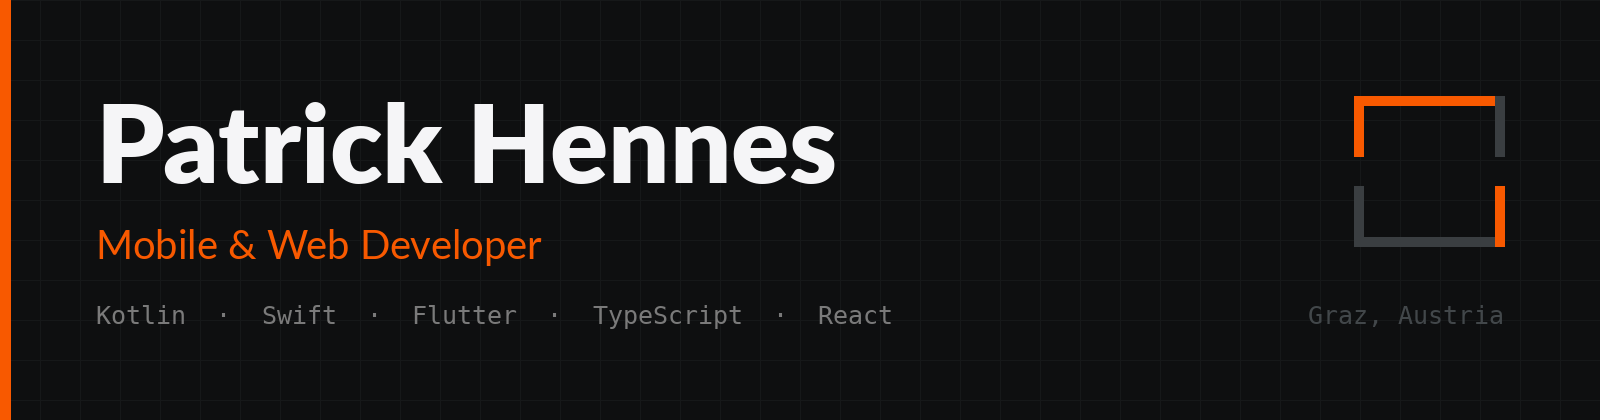
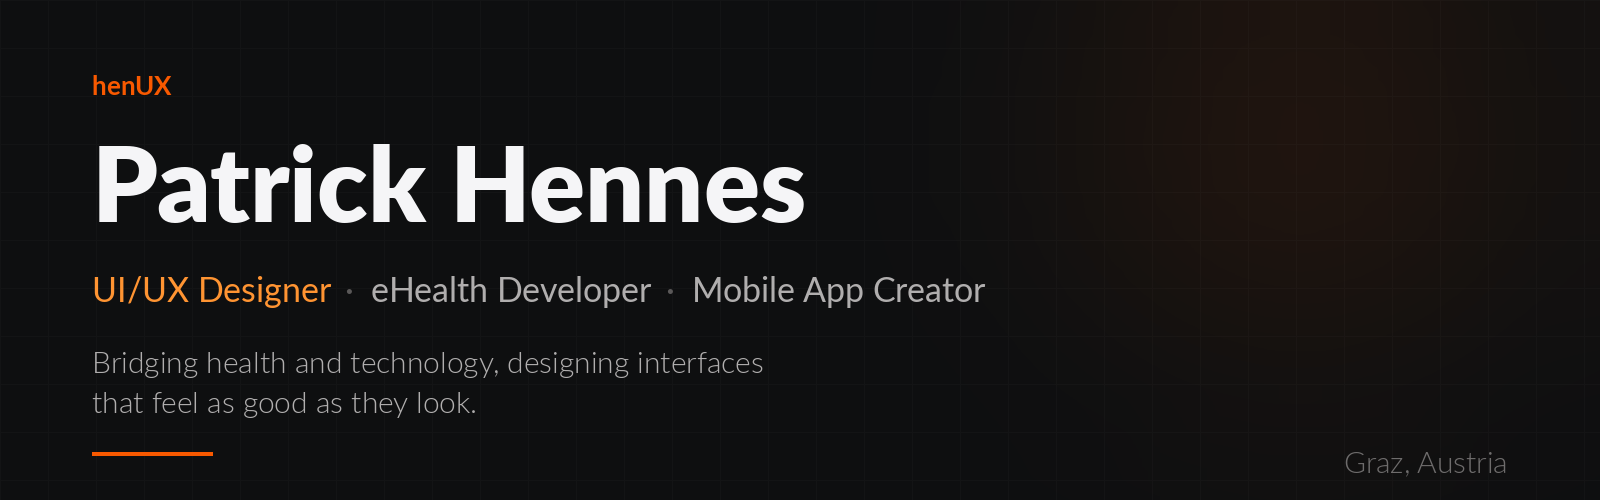
Rebuild profile in the henUX design language

diff --git a/README.md b/README.md
@@ -1,61 +1,52 @@
 <p align="center">
-  <img src="assets/banner.png" alt="Patrick Hennes, Mobile and Web Developer, Graz Austria" width="100%">
+  <img src="assets/banner.png" alt="Patrick Hennes, UI/UX Designer and eHealth Developer, Graz Austria" width="100%">
 </p>
 
 <p align="center">
-  <img src="https://img.shields.io/badge/Kotlin-0E0F10?style=flat-square&logo=kotlin&logoColor=F85900">
   <img src="https://img.shields.io/badge/Swift-0E0F10?style=flat-square&logo=swift&logoColor=F85900">
+  <img src="https://img.shields.io/badge/Kotlin-0E0F10?style=flat-square&logo=kotlin&logoColor=F85900">
   <img src="https://img.shields.io/badge/Flutter-0E0F10?style=flat-square&logo=flutter&logoColor=F85900">
-  <img src="https://img.shields.io/badge/Dart-0E0F10?style=flat-square&logo=dart&logoColor=F85900">
   <img src="https://img.shields.io/badge/TypeScript-0E0F10?style=flat-square&logo=typescript&logoColor=F85900">
   <img src="https://img.shields.io/badge/React-0E0F10?style=flat-square&logo=react&logoColor=F85900">
   <img src="https://img.shields.io/badge/Next.js-0E0F10?style=flat-square&logo=nextdotjs&logoColor=F85900">
   <img src="https://img.shields.io/badge/Firebase-0E0F10?style=flat-square&logo=firebase&logoColor=F85900">
-  <img src="https://img.shields.io/badge/Node.js-0E0F10?style=flat-square&logo=nodedotjs&logoColor=F85900">
+  <img src="https://img.shields.io/badge/Figma-0E0F10?style=flat-square&logo=figma&logoColor=F85900">
+  <img src="https://img.shields.io/badge/HL7%20FHIR-0E0F10?style=flat-square&logo=hl7&logoColor=F85900">
 </p>
 
----
+<br>
 
-I build apps end to end, from the interface down to the API underneath. Native
-in Kotlin and Swift, cross-platform in Flutter, React and Next.js on the web.
+I'm Patrick, from Graz. Got into tech early and never really stopped. I found
+UI/UX during an Erasmus semester in the Netherlands, on a project for the city
+of Amsterdam, and that changed the direction of everything since.
 
-My day job is the other side of development: I test and release telemedicine
-systems running in Austrian care programmes. Watching where software fails once
-real people depend on it changed how I build it. Finishing an MSc in eHealth at
-FH JOANNEUM in September 2026.
+Almost done with my MSc in eHealth at FH JOANNEUM, building mobile apps in
+Swift, Kotlin and Flutter, and thinking a lot about how health and technology
+can actually work well together. My day job is the other side of development: I
+test and release telemedicine systems running in Austrian care programmes.
+Seeing where software fails once real people depend on it changed how I build
+it.
 
 <br>
 
-## Open source
+## Selected work
 
-| | |
-|---|---|
-| **[exif_scrubber](https://github.com/hennees/exif_scrubber)** | Strips EXIF and XMP from JPEGs losslessly, without re-encoding pixels. Pure Dart, no plugins, 17 tests. Extracted from a production app, where photos leaving a device carry the owner's home address in the file header. |
-| **[pokedex-swiftui](https://github.com/hennees/pokedex-swiftui)** | SwiftUI app on the PokéAPI. My first iOS project, 2023. |
-| **[newsapp-compose](https://github.com/hennees/newsapp-compose)** | Android news reader. Jetpack Compose, Hilt, Paging 3, clean architecture. 2024. |
-
-Both university projects are published as they were written, each with a
-section on what I would do differently now. A portfolio that only shows the
-good parts is not a portfolio, it is a brochure.
-
-<br>
-
-## Built, but not open
-
-Some of my work belongs to a client, an employer, or contains other people's
-data. Those get a written account and screenshots instead of source.
+Some of this is a client's, an employer's, or holds other people's data. Those
+get a written account and screenshots instead of source.
 
 <table>
 <tr>
-<td width="25%" align="center"><a href="https://github.com/hennees/pairfect-showcase"><img src="assets/pairfect.png" width="150"></a></td>
-<td width="75%">
+<td width="26%" align="center"><a href="https://github.com/hennees/pairfect-showcase"><img src="assets/pairfect.png" width="150"></a></td>
+<td width="74%">
 
-**[Pairfect](https://github.com/hennees/pairfect-showcase)**
+### [Pairfect](https://github.com/hennees/pairfect-showcase)
 
 An app for two people: shared memories, a map of where you have been, plans and
 daily rituals. Built solo alongside a full-time master's and a job. 78,000
 lines of Dart across 11 feature modules, a serverless backend, subscriptions,
 offline maps, iOS widgets. Nine months, 493 commits.
+
+`Flutter` `Dart` `Firebase` `RevenueCat` `Mapbox` `WidgetKit`
 
 </td>
 </tr>
@@ -63,37 +54,14 @@ offline maps, iOS widgets. Nine months, 493 commits.
 <td align="center"><a href="https://github.com/hennees/amigon-showcase"><img src="assets/amigon.png" width="150"></a></td>
 <td>
 
-**[Amigon](https://github.com/hennees/amigon-showcase)**
+### [Amigon](https://github.com/hennees/amigon-showcase)
 
-Master's thesis. A system that lets people check in on their own mental health
-in their own words, combining validated questionnaires with a voice check-in.
-Every measurement becomes an HL7 FHIR R4 Observation. Evaluated with 20
-participants, **SUS 86.8**.
+Master's thesis. A mental health companion that lets people check in in their
+own words, combining validated questionnaires with a voice journal the model
+listens to. Every measurement becomes an HL7 FHIR R4 Observation. Evaluated
+with 20 participants, **SUS 86.8**.
 
-</td>
-</tr>
-<tr>
-<td align="center"><a href="https://github.com/hennees/anno-amsterdam-showcase"><img src="assets/anno.png" width="150"></a></td>
-<td>
-
-**[Anno Amsterdam](https://github.com/hennees/anno-amsterdam-showcase)**
-
-Tourism app opening up Amsterdam's undocumented historic architecture. Client
-project during my exchange semester. I owned the frontend, built natively in
-Kotlin and Swift for both platforms.
-
-</td>
-</tr>
-<tr>
-<td align="center"><a href="https://github.com/hennees/scoon-showcase"><img src="assets/scoon.png" width="150"></a></td>
-<td>
-
-**[Scoon](https://github.com/hennees/scoon-showcase)**
-
-Community platform where photographers find and share shooting locations. Own
-venture with **[ITanic GmbH](https://itanic.at)** and **[Kyri Agency](https://www.kyri.agency/)**. Product concept and user flows,
-including the model that pays contributors for the places they add.
-[scoon-app.com](https://scoon-app.com) · [@scoon.app](https://instagram.com/scoon.app)
+`Flutter` `Firebase` `Python` `HL7 FHIR R4` `LLM & acoustic analysis`
 
 </td>
 </tr>
@@ -101,18 +69,72 @@ including the model that pays contributors for the places they add.
 <td align="center"><a href="https://github.com/hennees/strykerlabs-showcase"><img src="assets/stryker.png" width="150"></a></td>
 <td>
 
-**[Wearable Data Interface](https://github.com/hennees/strykerlabs-showcase)**
+### [Wearable Dashboard](https://github.com/hennees/strykerlabs-showcase)
 
-A vendor-agnostic interface harmonising data from heterogeneous wearables for
-eHealth research. Built at the Institute of eHealth, FH JOANNEUM, in
-cooperation with Strykerlabs GmbH, who own the product. I built the Garmin
-integration, OAuth 2.0 PKCE and real-time webhook ingestion, and the
-integration dashboard.
-[Published by FH JOANNEUM](https://www.fh-joanneum.at/projekt/strykerlabs/)
+A health dashboard for wearable data, in collaboration with Strykerlabs GmbH,
+Graz. Heart rate, sleep and activity from different vendors, harmonised into
+one model. I built the Garmin integration and the dashboard.
+[Published by FH JOANNEUM](https://www.fh-joanneum.at/projekt/strykerlabs/).
+
+`TypeScript` `React` `OAuth 2.0 PKCE` `Webhooks` `PostgreSQL`
+
+</td>
+</tr>
+<tr>
+<td align="center"><a href="https://github.com/hennees/scoon-showcase"><img src="assets/scoon.png" width="150"></a></td>
+<td>
+
+### [Scoon](https://github.com/hennees/scoon-showcase)
+
+The platform for photographers, videographers and creators searching for the
+best locations. Community-driven, and contributors earn from every spot they
+add. Own venture with [ITanic GmbH](https://itanic.at) and
+[Kyri Agency](https://www.kyri.agency/). I own product concept and user flows.
+[scoon-app.com](https://scoon-app.com)
+
+`Product concept` `UI/UX` `Figma`
+
+</td>
+</tr>
+<tr>
+<td align="center"><a href="https://github.com/hennees/anno-amsterdam-showcase"><img src="assets/anno.png" width="150"></a></td>
+<td>
+
+### [Anno Amsterdam](https://github.com/hennees/anno-amsterdam-showcase)
+
+AR tourism app for Amsterdam. Explore building information through augmented
+reality and pick your own route through the city. The Erasmus project that got
+me into this in the first place. I owned the frontend, native on both
+platforms.
+
+`Kotlin` `Swift` `Maps` `AR`
 
 </td>
 </tr>
 </table>
+
+<br>
+
+## Open source
+
+| | |
+|---|---|
+| **[exif_scrubber](https://github.com/hennees/exif_scrubber)** | Strips EXIF and XMP from JPEGs losslessly, without re-encoding pixels. Pure Dart, no plugins, 17 tests. Pulled out of a production app, where a photo leaving a phone carries its owner's home address in the file header. |
+| **[pokedex-swiftui](https://github.com/hennees/pokedex-swiftui)** | A Pokédex with fluid animations and detailed profiles. My first iOS project, 2023. |
+| **[newsapp-compose](https://github.com/hennees/newsapp-compose)** | Android news reader. Jetpack Compose, Hilt, Paging 3, clean architecture. 2024. |
+
+Both university projects are published as they were written, each ending with a
+section on what I would do differently now. A portfolio that only shows the good
+parts is not a portfolio, it is a brochure.
+
+<br>
+
+## On AI
+
+I use AI tools in basically everything I do, not as a shortcut, but because
+they genuinely make the work better and faster. What I do not outsource is
+knowing why the code looks the way it does. Ask me about any line in anything
+here.
 
 <br>
 
@@ -125,11 +147,10 @@ either.
 
 <br>
 
-## Elsewhere
-
-<p>
-  <a href="https://henux.at"><img src="https://img.shields.io/badge/Portfolio-henux.at-F85900?style=flat-square"></a>
-  <a href="https://linkedin.com/in/hennespatrick"><img src="https://img.shields.io/badge/LinkedIn-hennespatrick-0E0F10?style=flat-square&logo=linkedin&logoColor=F85900"></a>
+<p align="center">
+  <a href="https://henux.at"><img src="https://img.shields.io/badge/henux.at-F85900?style=for-the-badge&logoColor=0E0F10"></a>
+  <a href="https://linkedin.com/in/hennespatrick"><img src="https://img.shields.io/badge/LinkedIn-0E0F10?style=for-the-badge&logo=linkedin&logoColor=F85900"></a>
+  <a href="mailto:patrick.hennes27@gmail.com"><img src="https://img.shields.io/badge/Email-0E0F10?style=for-the-badge&logo=gmail&logoColor=F85900"></a>
 </p>
 
-Open to mobile and web development roles in Graz, remote, or internationally.
+<p align="center"><sub>Open to mobile and web roles in Graz, remote, or internationally.</sub></p>
